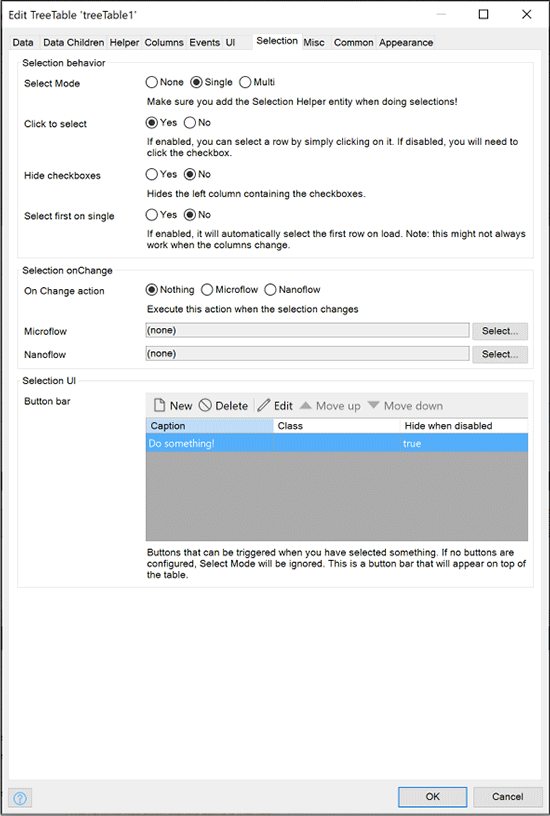
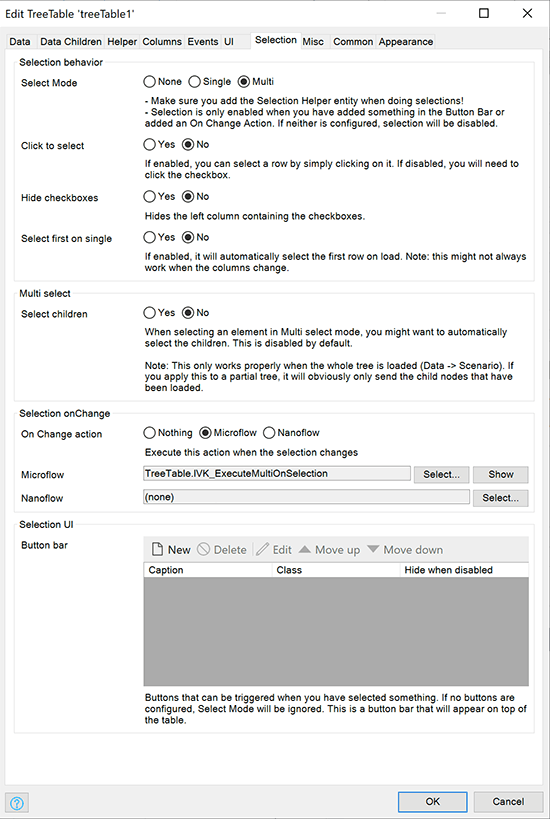
Add option to automatically select/deselect children on multiselect (#25)

diff --git a/src/components/TreeTable.tsx b/src/components/TreeTable.tsx
@@ -36,7 +36,7 @@ export interface TreeTableProps {
     showHeader: boolean;
     clickToSelect: boolean;
     selectMode: SelectionMode;
-    onSelect?: (ids: string[]) => void;
+    onSelect?: (ids: string[], childChange?: { record: TableRecord; selected: boolean }) => void;
     buttonBar?: ReactNode;
     hideSelectBoxes?: boolean;
     renderExpandButton?: boolean;
@@ -131,23 +131,29 @@ export class TreeTable extends Component<TreeTableProps> {
             rowSelection = {
                 type: "checkbox",
                 selectedRowKeys: selectedRows,
-                onChange: (keys: string[]) => {
-                    if (selectMode === "multi") {
-                        this.setSelected(keys);
-                    }
-                },
-                onSelectAll: () => {
+                // onChange: (_keys: string[]) => {
+                //     if (selectMode === "multi") {
+                //         this.setSelected(keys);
+                //     }
+                // },
+                onSelectAll: (selected: boolean, selectedRows: TableRecord[]) => {
+                    const keys = selectedRows.map(row => row.key);
                     if (selectMode === "single" && selectedRows.length > 0) {
                         this.setSelected([]);
+                    } else if (selectMode === "multi") {
+                        this.setSelected(selected ? keys : []);
                     }
                 },
                 onSelect: (record: TableRecord, selected: boolean, selectedRows: TableRecord[]) => {
+                    const keys = selectedRows.map(row => row.key);
                     if (selectMode === "single") {
                         if (selected) {
                             this.setSelected([record.key]);
                         } else {
-                            this.setSelected(selectedRows.map(row => row.key));
+                            this.setSelected(keys);
                         }
+                    } else {
+                        this.setSelected(keys, { record, selected });
                     }
                 }
             };
@@ -233,8 +239,8 @@ export class TreeTable extends Component<TreeTableProps> {
         );
     }
 
-    private setSelected(keys: string[]): void {
-        this.onSelectionChange(keys);
+    private setSelected(keys: string[], childChange?: { record: TableRecord; selected: boolean }): void {
+        this.onSelectionChange(keys, childChange);
     }
 
     private rowClassName(record: TableRecord, index: number): string {
@@ -268,9 +274,9 @@ export class TreeTable extends Component<TreeTableProps> {
         }
     }
 
-    private onSelectionChange(ids: string[]): void {
+    private onSelectionChange(ids: string[], childChange?: { record: TableRecord; selected: boolean }): void {
         if (this.props.onSelect) {
-            this.props.onSelect(ids);
+            this.props.onSelect(ids, childChange);
         }
     }
 

diff --git a/src/MxTreeTable.tsx b/src/MxTreeTable.tsx
@@ -703,18 +703,47 @@ Your context object is of type "${contextEntity}". Please check the configuratio
         }
     }
 
-    private onSelect(ids: string[]): void {
-        const { selectMode, mxObject } = this.props;
+    private onSelect(ids: string[], childChange?: { record: TableRecord; selected: boolean }): void {
+        const { selectMode, selectMultiChildren, mxObject } = this.props;
+
+        let selectedIDS = ids;
+
         if (selectMode === "none") {
             return;
         }
         if (mxObject) {
+            let additions: string[] = [];
+            let removals: string[] = [];
+
+            if (selectMode === "multi" && selectMultiChildren && childChange) {
+                const row = this.store.findRowObject(childChange.record.key);
+                if (row) {
+                    const children = this.store.findChildren(row);
+                    if (children.length > 0) {
+                        const ids = children.map(c => c.key);
+                        if (childChange.selected) {
+                            additions = ids;
+                        } else {
+                            removals = ids;
+                        }
+                    }
+                }
+            }
+
             try {
                 const { selectedRows } = this.store;
-                const unTouched = selectedRows.filter(row => ids.indexOf(row) !== -1);
-                const newIds = ids.filter(id => selectedRows.indexOf(id) === -1);
 
-                if (ids.length === 0 || newIds.length === 0) {
+                if (additions.length) {
+                    selectedIDS = [...selectedIDS, ...additions.filter(a => !selectedIDS.includes(a))];
+                }
+                if (removals.length) {
+                    selectedIDS = selectedIDS.filter(id => !removals.includes(id));
+                }
+
+                const unTouched = selectedRows.filter(row => selectedIDS.indexOf(row) !== -1);
+                const newIds = selectedIDS.filter(id => selectedRows.indexOf(id) === -1);
+
+                if (selectedIDS.length === 0 || newIds.length === 0) {
                     this.store.setSelected(unTouched);
                     this.onSelectAction();
                 } else {

diff --git a/webpack.config.prod.js b/webpack.config.prod.js
@@ -86,7 +86,37 @@ if (args.length === 5 && args[4] === "--analyze") {
 
 const previewConfig = {
     // Custom configuration goes here
-    // devtool: "source-map"
+    devtool: false,
+    optimization: {
+        minimizer: [
+            new TerserPlugin({
+                cache: true,
+                parallel: true,
+                terserOptions: {
+                    ecma: undefined,
+                    warnings: false,
+                    parse: {},
+                    compress: {
+                        passes: 2
+                    },
+                    mangle: true, // Note `mangle.properties` is `false` by default.
+                    module: false,
+                    output: {
+                        comments: false,
+                        beautify: false,
+                        preamble: `/* TreeTable Widget (preview) || Version ${pkg.version} || Apache 2 LICENSE || Developer: ${pkg.author} || Please report any issues here: https://github.com/JelteMX/mendix-tree-table/issues */\n`
+                        // comments: false
+                    },
+                    toplevel: false,
+                    nameCache: null,
+                    ie8: false,
+                    keep_classnames: undefined,
+                    keep_fnames: false,
+                    safari10: false,
+                },
+            }),
+          ]
+    },
     plugins: [
         // new BundleAnalyzerPlugin(),
         // We only include the moment locale for en-gb, as this is not used in a lot of places and we don't need all the locales

diff --git a/src/store/index.ts b/src/store/index.ts
@@ -71,6 +71,7 @@ export class NodeStore {
     public hasChildren = this._hasChildren.bind(this);
     public rowChangeHandler = this._rowChangeHandler.bind(this);
     public findParents = this._findParents.bind(this);
+    public findChildren = this._findChildren.bind(this);
     public setSelectedFromExternal = this._setSelectedFromExternal.bind(this);
 
     @observable public contextObject: mendix.lib.MxObject | null;
@@ -582,6 +583,24 @@ export class NodeStore {
                 break;
             }
         }
+        return returnArray;
+    }
+
+    private _findChildren(rowObject: RowObject): RowObject[] {
+        let returnArray: RowObject[] = [];
+
+        const directChildren = this.rowObjects.filter(row => row._parent === rowObject.key);
+
+        if (directChildren.length > 0) {
+            directChildren.forEach(child => {
+                returnArray.push(child);
+                const childChild = this._findChildren(child);
+                returnArray = returnArray.concat(childChild);
+            });
+        } else {
+            return [];
+        }
+
         return returnArray;
     }
 

diff --git a/typings/MxTreeTableProps.d.ts b/typings/MxTreeTableProps.d.ts
@@ -108,6 +108,7 @@ export interface MxTreeTableContainerProps extends CommonProps {
     selectClickSelect: boolean;
     selectHideCheckboxes: boolean;
     selectSelectFirstOnSingle: boolean;
+    selectMultiChildren: boolean;
     selectOnChangeAction: OnChangeAction;
     selectOnChangeMicroflow: string;
     selectOnChangeNanoflow: Nanoflow;
